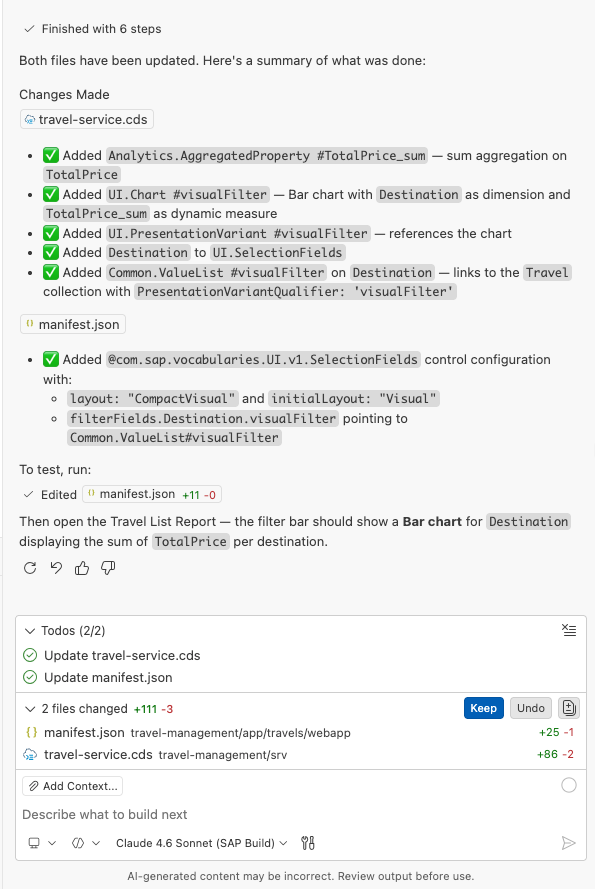
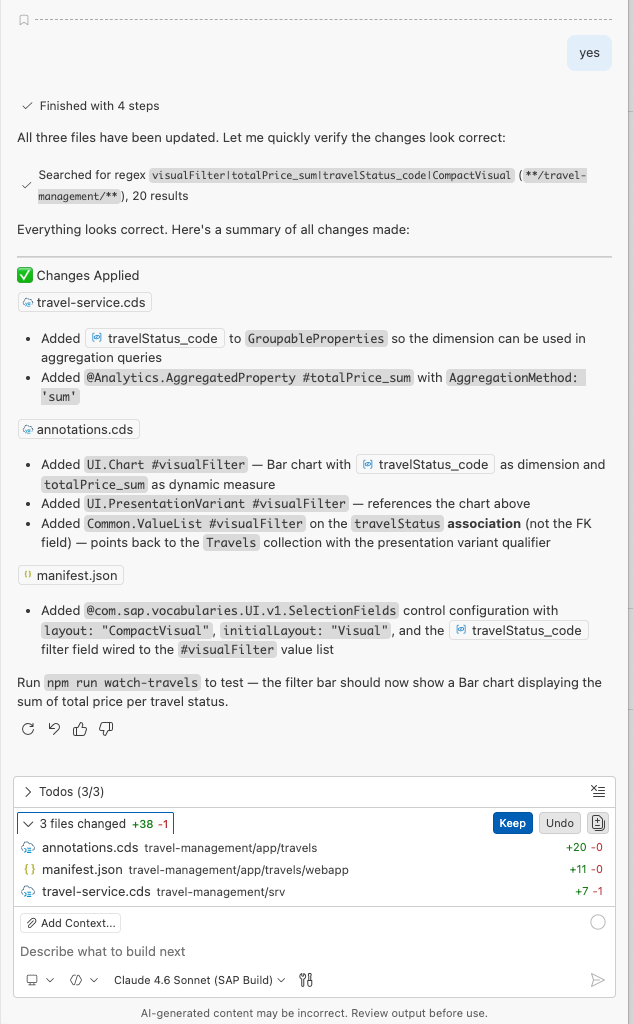
fix: visual filter

Changed region(s): [[0.0, 0.0, 1.0, 1.0], [0.9076, 0.0304, 0.9378, 0.0607], [0.0303, 0.0, 0.0605, 0.0304]]

diff --git a/exercises/ex1.4/README.md b/exercises/ex1.4/README.md
@@ -6,17 +6,9 @@
 
 2. Enter the prompt in the task input:
     ```
-    Add a visual filter to the Travel List Report (CAP project).
+    /sap-fiori-add-visual-filter Add a visual filtar bar to the List Report that displays the sum of total price per traval status.
+   Create implementation plan first, then proceed with confirmation.
 
-    - Entity: Travel
-    - Dimension: Destination
-    - Measure: TotalPrice
-    - Aggregation: sum
-    - Chart type: Bar
-    - Qualifier: visualFilter
-
-    Create an implementation plan first, then proceed after confirmation.
-    Consult sap-fiori-add-visual-filter skill.
     ```
 
 3. Execute the prompt. Copilot will consult the sap-fiori-add-visual-filter skill on how to implement visual filters.
@@ -24,7 +16,7 @@
     <img src="./images/imp-plan.png" alt="copilot" width="60%"/>
 
 4. Verify that your implementation plan includes the following changes:
-    - Extend `@Aggregation.ApplySupported` on the Travel entity to include `TotalPrice` in AggregatableProperties and `Destination` in GroupableProperties
+    - Extend `@Aggregation.ApplySupported` on the Travel entity to include `TotalPrice` in AggregatableProperties and `travelStatus_code` in GroupableProperties
     - Add `@Analytics.AggregatedProperty #TotalPrice_sum` for the dynamic measure
     - Add `UI.Chart #visualFilter` with DynamicMeasures
     - Add `UI.PresentationVariant #visualFilter`
